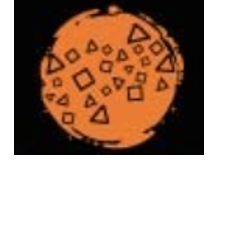
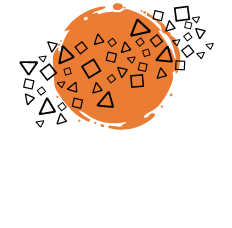
Modifico los fondos de las subpaginas y las margenes de los botones

diff --git a/css/estilosAccionesProvocadoras.css b/css/estilosAccionesProvocadoras.css
@@ -1,48 +1,52 @@
-.bodyPaginaInternaAccionesProvocadoras  {
+body, html {
+    height: 100%;
+    background-repeat: no-repeat;
     background-image: url('../images/FondoPaginaInternaAccionesProvocadoras.png');
-    }    
+    background-size: 100% 100%;
+    margin: 0;
+}      
 
 .botonQuienSoyPaginasInternasAcciones
 {
-    padding: 0px; float: right; width: 78px; position:absolute; margin-top: 560px; margin-right: 300px; margin-left: 1110px;
+    padding: 0px; float: right; width: 78px; position:absolute; margin-top: 39%; margin-right: 300px; margin-left: 1110px;
 }
 
 .botonCuadroMiTrabajoPaginasInternasAcciones
 {
-    padding: 0px; float: right; width: 80px; position:absolute; margin-top: 560px; margin-right: -220px; margin-left: 1020px;
+    padding: 0px; float: right; width: 80px; position:absolute; margin-top: 39%; margin-right: -220px; margin-left: 1020px;
 }
 
 .botonInicioPaginasInternasAcciones
 {
-    padding: 0px; float: right; width: 90px; position:absolute; margin-top: 560px; margin-right: -220px; margin-left: 910px;
+    padding: 0px; float: right; width: 90px; position:absolute; margin-top: 39%; margin-right: -220px; margin-left: 910px;
 }
 
 .botonCartografiasCorporales
 {
-    padding: 0px; float: right; width: 80px; position:absolute; margin-top: 430px; margin-right: 300px; margin-left: 200px;
+    padding: 0px; float: right; width: 100px; position:absolute; margin-top: 30%; margin-right: 300px; margin-left: 200px;
 }
 
 .botonAutorretratos
 {
-    padding: 0px; float: right; width: 90px; position:absolute; margin-top: 430px; margin-right: 300px; margin-left: 350px;
+    padding: 0px; float: right; width: 105px; position:absolute; margin-top: 30%; margin-right: 300px; margin-left: 350px;
 }
 
 .botonSentimientos
 {
-    padding: 0px; float: right; width: 90px; position:absolute; margin-top: 430px; margin-right: 300px; margin-left: 500px;
+    padding: 0px; float: right; width: 102px; position:absolute; margin-top: 30%; margin-right: 300px; margin-left: 500px;
 }
 
 .botonAccionesSensoriales
 {
-    padding: 0px; float: right; width: 80px; position:absolute; margin-top: 430px; margin-right: 300px; margin-left: 650px;
+    padding: 0px; float: right; width: 90px; position:absolute; margin-top: 30%; margin-right: 300px; margin-left: 650px;
 }
 
 .botonCuerpoyMovimiento
 {
-    padding: 0px; float: right; width: 80px; position:absolute; margin-top: 430px; margin-right: 300px; margin-left: 800px;
+    padding: 0px; float: right; width: 90px; position:absolute; margin-top: 30%; margin-right: 300px; margin-left: 800px;
 }
 
 .botonCotidianidades
 {
-    padding: 0px; float: right; width: 95px; position:absolute; margin-top: 430px; margin-right: 300px; margin-left: 950px;
+    padding: 0px; float: right; width: 110px; position:absolute; margin-top: 30%; margin-right: 300px; margin-left: 950px;
 }

diff --git a/css/estilosSubPaginasInternas.css b/css/estilosSubPaginasInternas.css
@@ -1,3 +1,11 @@
+body, html {
+    height: 100%;
+    background-repeat: no-repeat;
+    background-size: 100% 100%;
+    margin: 0;
+}  
+
+
 .bodySubPaginaInternaCartografiasCorporales  
 {
     background-image: url('../images/FondoSubPaginaInternaCartografiasCorporales.png');
@@ -30,20 +38,20 @@
 
 .botonAccionesProvocadorasPaginasInternas
 {
-    padding: 0px; float: right; width: 82px; position:absolute; margin-top: 560px; margin-right: -30px; margin-left: 1110px;
+    padding: 0px; float: right; width: 78px; position:absolute; margin-top: 39%; margin-right: -30px; margin-left: 1110px;
 }
 
 .botonQuienSoyPaginasInternas
 {
-    padding: 0px; float: right; width: 78px; position:absolute; margin-top: 560px; margin-right: -30px; margin-left: 1030px;
+    padding: 0px; float: right; width: 78px; position:absolute; margin-top: 39%; margin-right: -30px; margin-left: 1030px;
 }
 
 .botonCuadroMiTrabajoPaginasInternas
 {
-    padding: 0px; float: right; width: 80px; position:absolute; margin-top: 560px; margin-right: -220px; margin-left: 940px;
+    padding: 0px; float: right; width: 78px; position:absolute; margin-top: 39%; margin-right: -220px; margin-left: 940px;
 }
 
 .botonInicioPaginasInternas
 {
-    padding: 0px; float: right; width: 90px; position:absolute; margin-top: 560px; margin-right: -220px; margin-left: 830px;
+    padding: 0px; float: right; width: 78px; position:absolute; margin-top: 39%; margin-right: -220px; margin-left: 830px;
 }

diff --git a/css/estilosMiTrabajo.css b/css/estilosMiTrabajo.css
@@ -1,24 +1,27 @@
-.bodyPaginaInternaMiTrabajo  
-{
+body, html {
+    height: 100%;
+    background-repeat: no-repeat;
     background-image: url('../images/FondoPaginaInternaMiTrabajo.png');
-}
+    background-size: 100% 100%;
+    margin: 0;
+}  
      
 .botonQuienSoyPaginasInternas
 {
-    padding: 0px; float: right; width: 80px; position:absolute; margin-top: 560px; margin-right: -220px; margin-left: 1020px;
+    padding: 0px; float: right; width: 80px; position:absolute; margin-top: 39%; margin-right: -220px; margin-left: 1020px;
 }
 
 .botonAccionesProvocadorasPaginasInternas
 {
-    padding: 0px; float: right; width: 82px; position:absolute; margin-top: 560px; margin-right: -30px; margin-left: 1110px;
+    padding: 0px; float: right; width: 82px; position:absolute; margin-top: 39%; margin-right: -30px; margin-left: 1110px;
 }
 
 .botonCuadroMiTrabajoPaginasInternas
 {
-    padding: 0px; float: right; width: 80px; position:absolute; margin-top: 560px; margin-right: -220px; margin-left: 1020px;
+    padding: 0px; float: right; width: 80px; position:absolute; margin-top: 39%; margin-right: -220px; margin-left: 1020px;
 }
 
 .botonInicioPaginasInternas
 {
-    padding: 0px; float: right; width: 90px; position:absolute; margin-top: 560px; margin-right: -220px; margin-left: 910px;
+    padding: 0px; float: right; width: 90px; position:absolute; margin-top: 39%; margin-right: -220px; margin-left: 910px;
 }

diff --git a/css/estilosQuienSoy.css b/css/estilosQuienSoy.css
@@ -1,24 +1,27 @@
-.bodyPaginaInternaQuienSoy  
-{
+body, html {
+    height: 100%;
+    background-repeat: no-repeat;
     background-image: url('../images/FondoPaginaInternaQuienSoy.png');
-}   
+    background-size: 100% 100%;
+    margin: 0;
+}  
 
 .botonQuienSoyPaginasInternas
 {
-    padding: 0px; float: right; width: 78px; position:absolute; margin-top: 560px; margin-right: -30px; margin-left: 1100px;
+    padding: 0px; float: right; width: 78px; position:absolute; margin-top: 39%; margin-right: -30px; margin-left: 1100px;
 }
 
 .botonAccionesProvocadorasPaginasInternas
 {
-    padding: 0px; float: right; width: 82px; position:absolute; margin-top: 560px; margin-right: -30px; margin-left: 1110px;
+    padding: 0px; float: right; width: 82px; position:absolute; margin-top: 39%; margin-right: -30px; margin-left: 1110px;
 }
 
 .botonCuadroMiTrabajoPaginasInternas
 {
-    padding: 0px; float: right; width: 80px; position:absolute; margin-top: 560px; margin-right: -220px; margin-left: 1020px;
+    padding: 0px; float: right; width: 80px; position:absolute; margin-top: 39%; margin-right: -220px; margin-left: 1020px;
 }
 
 .botonInicioPaginasInternas
 {
-    padding: 0px; float: right; width: 90px; position:absolute; margin-top: 560px; margin-right: -220px; margin-left: 910px;
+    padding: 0px; float: right; width: 90px; position:absolute; margin-top: 39%; margin-right: -220px; margin-left: 910px;
 }

diff --git a/css/estilos.css b/css/estilos.css
@@ -50,5 +50,5 @@ body, html {
 
 .geometricosPaginadeInicio
 {
-    padding: 0px; float: right; width: 900px; position: absolute; margin-top: 20%; margin-right: 100px; margin-left: -50px;
+    padding: 0px; float: right; width: auto; position: absolute; margin-top: 20%; margin-right: 100px; margin-left: -50px;
 }
